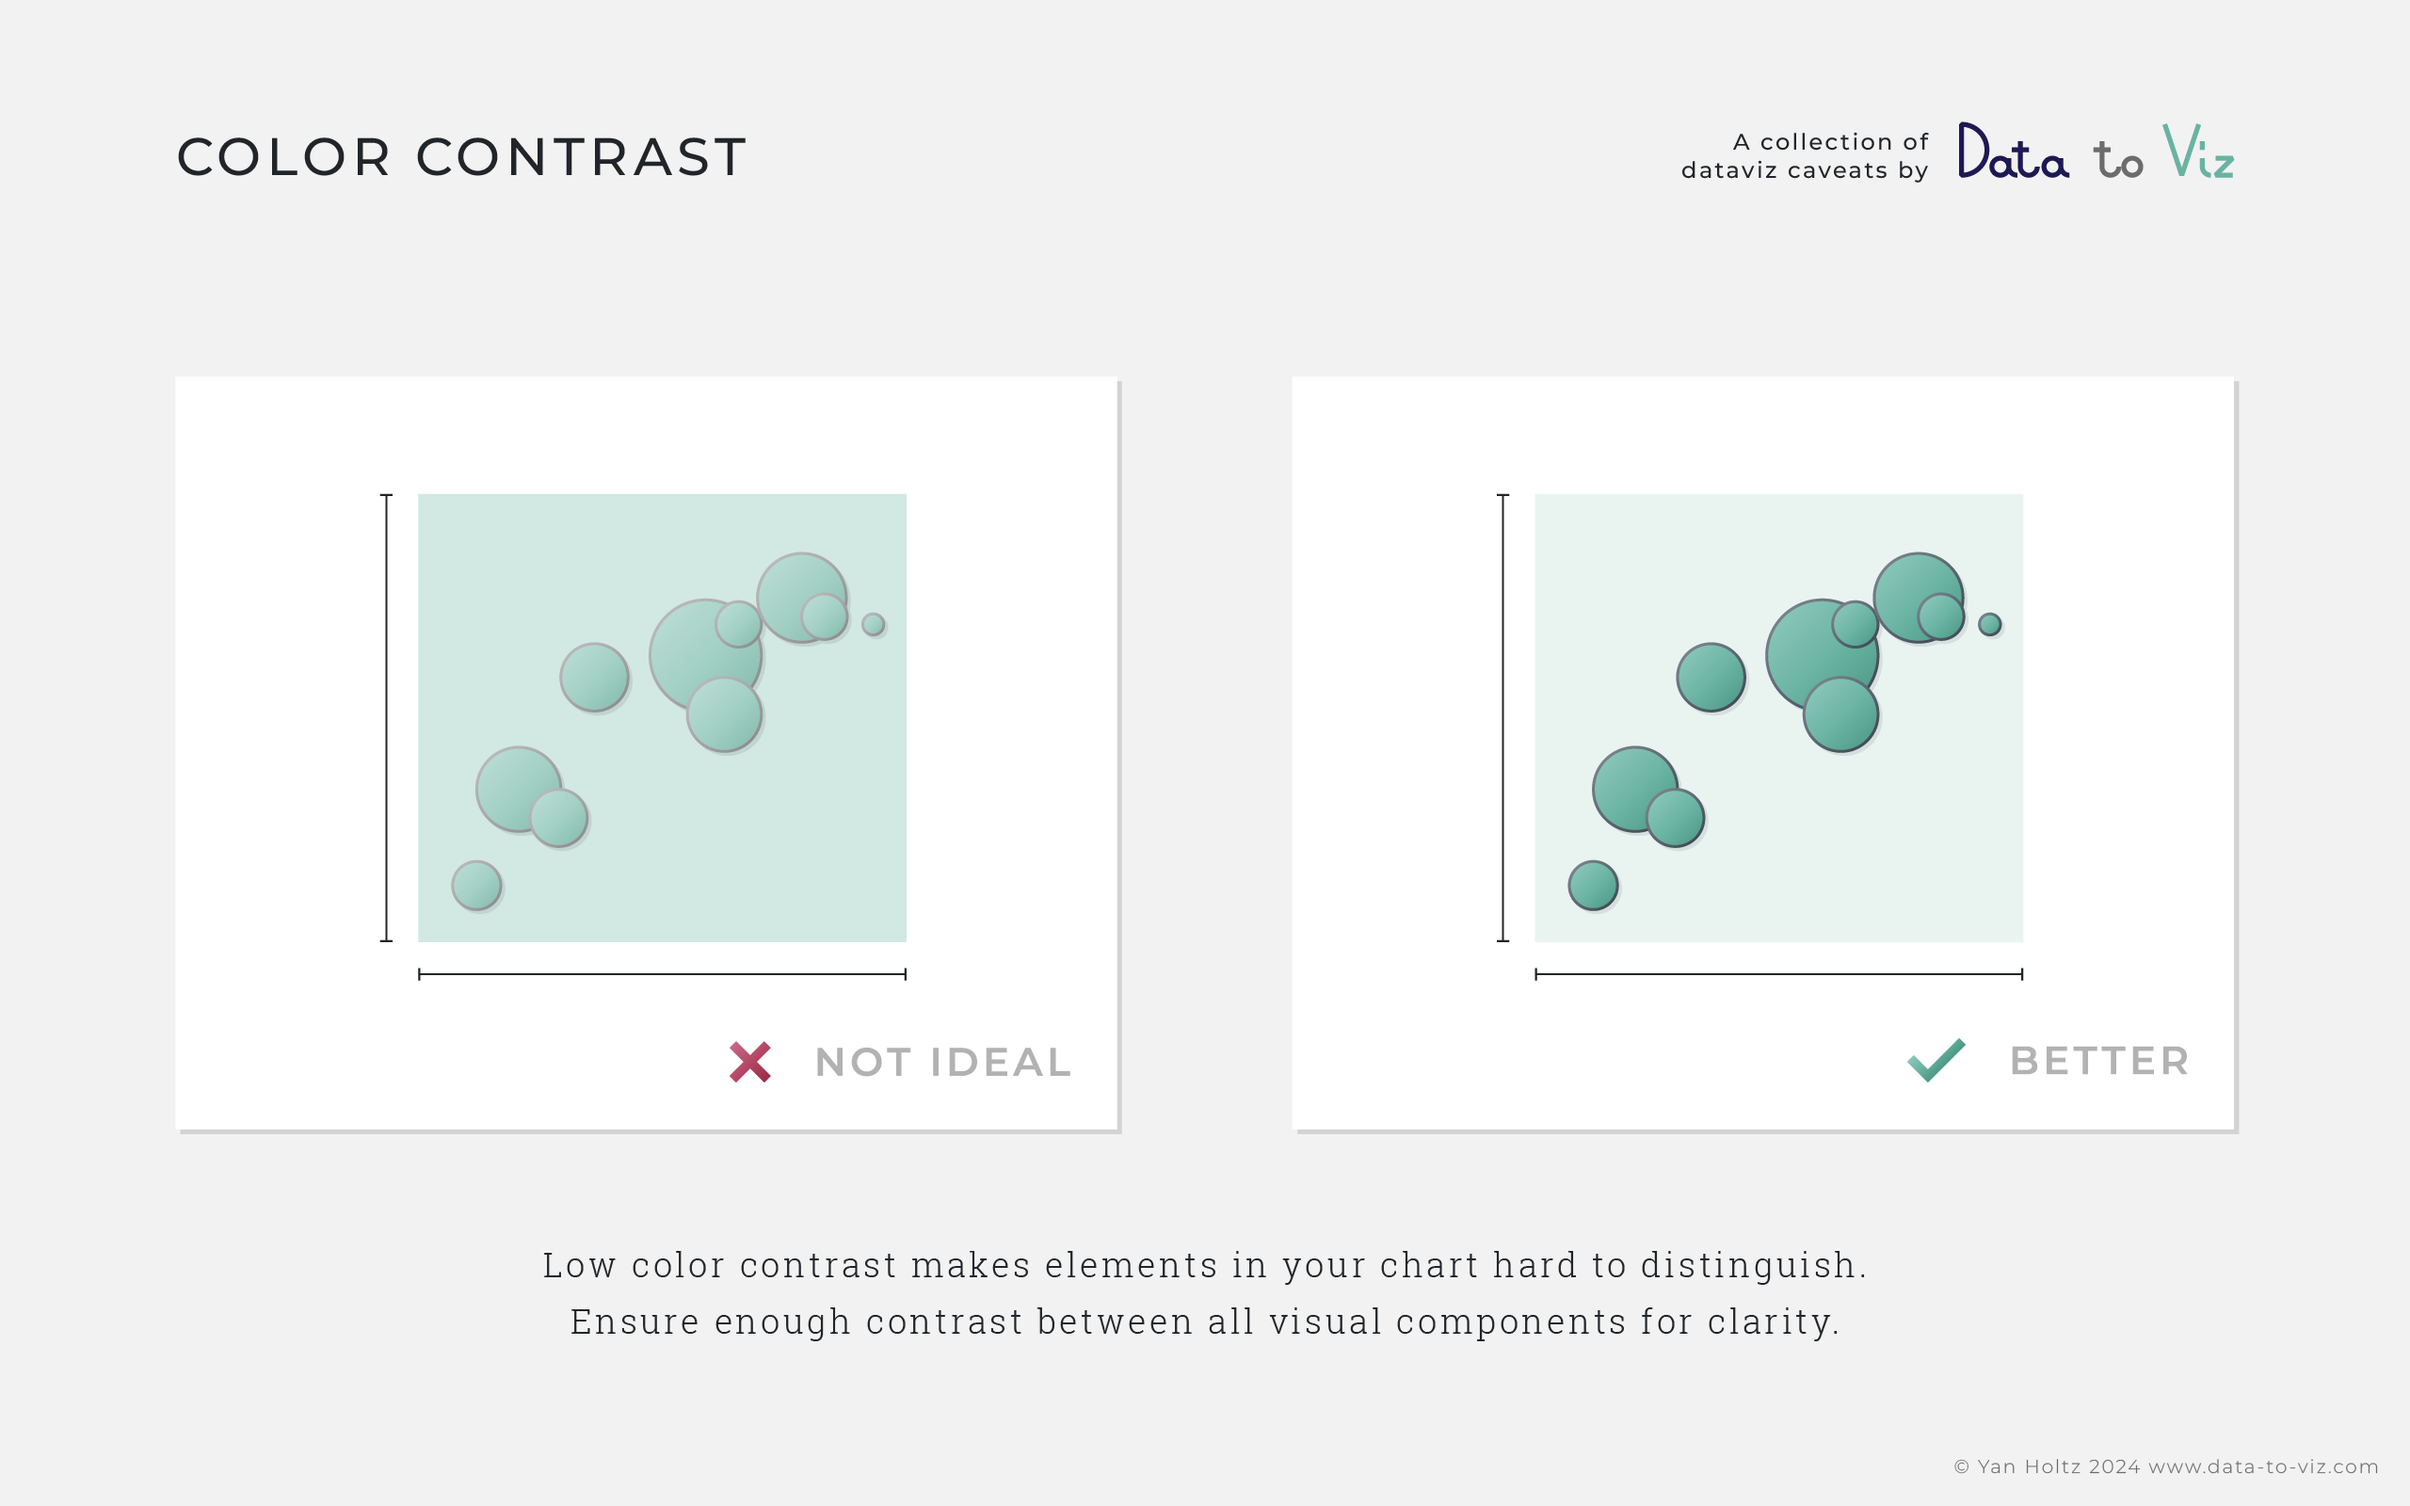
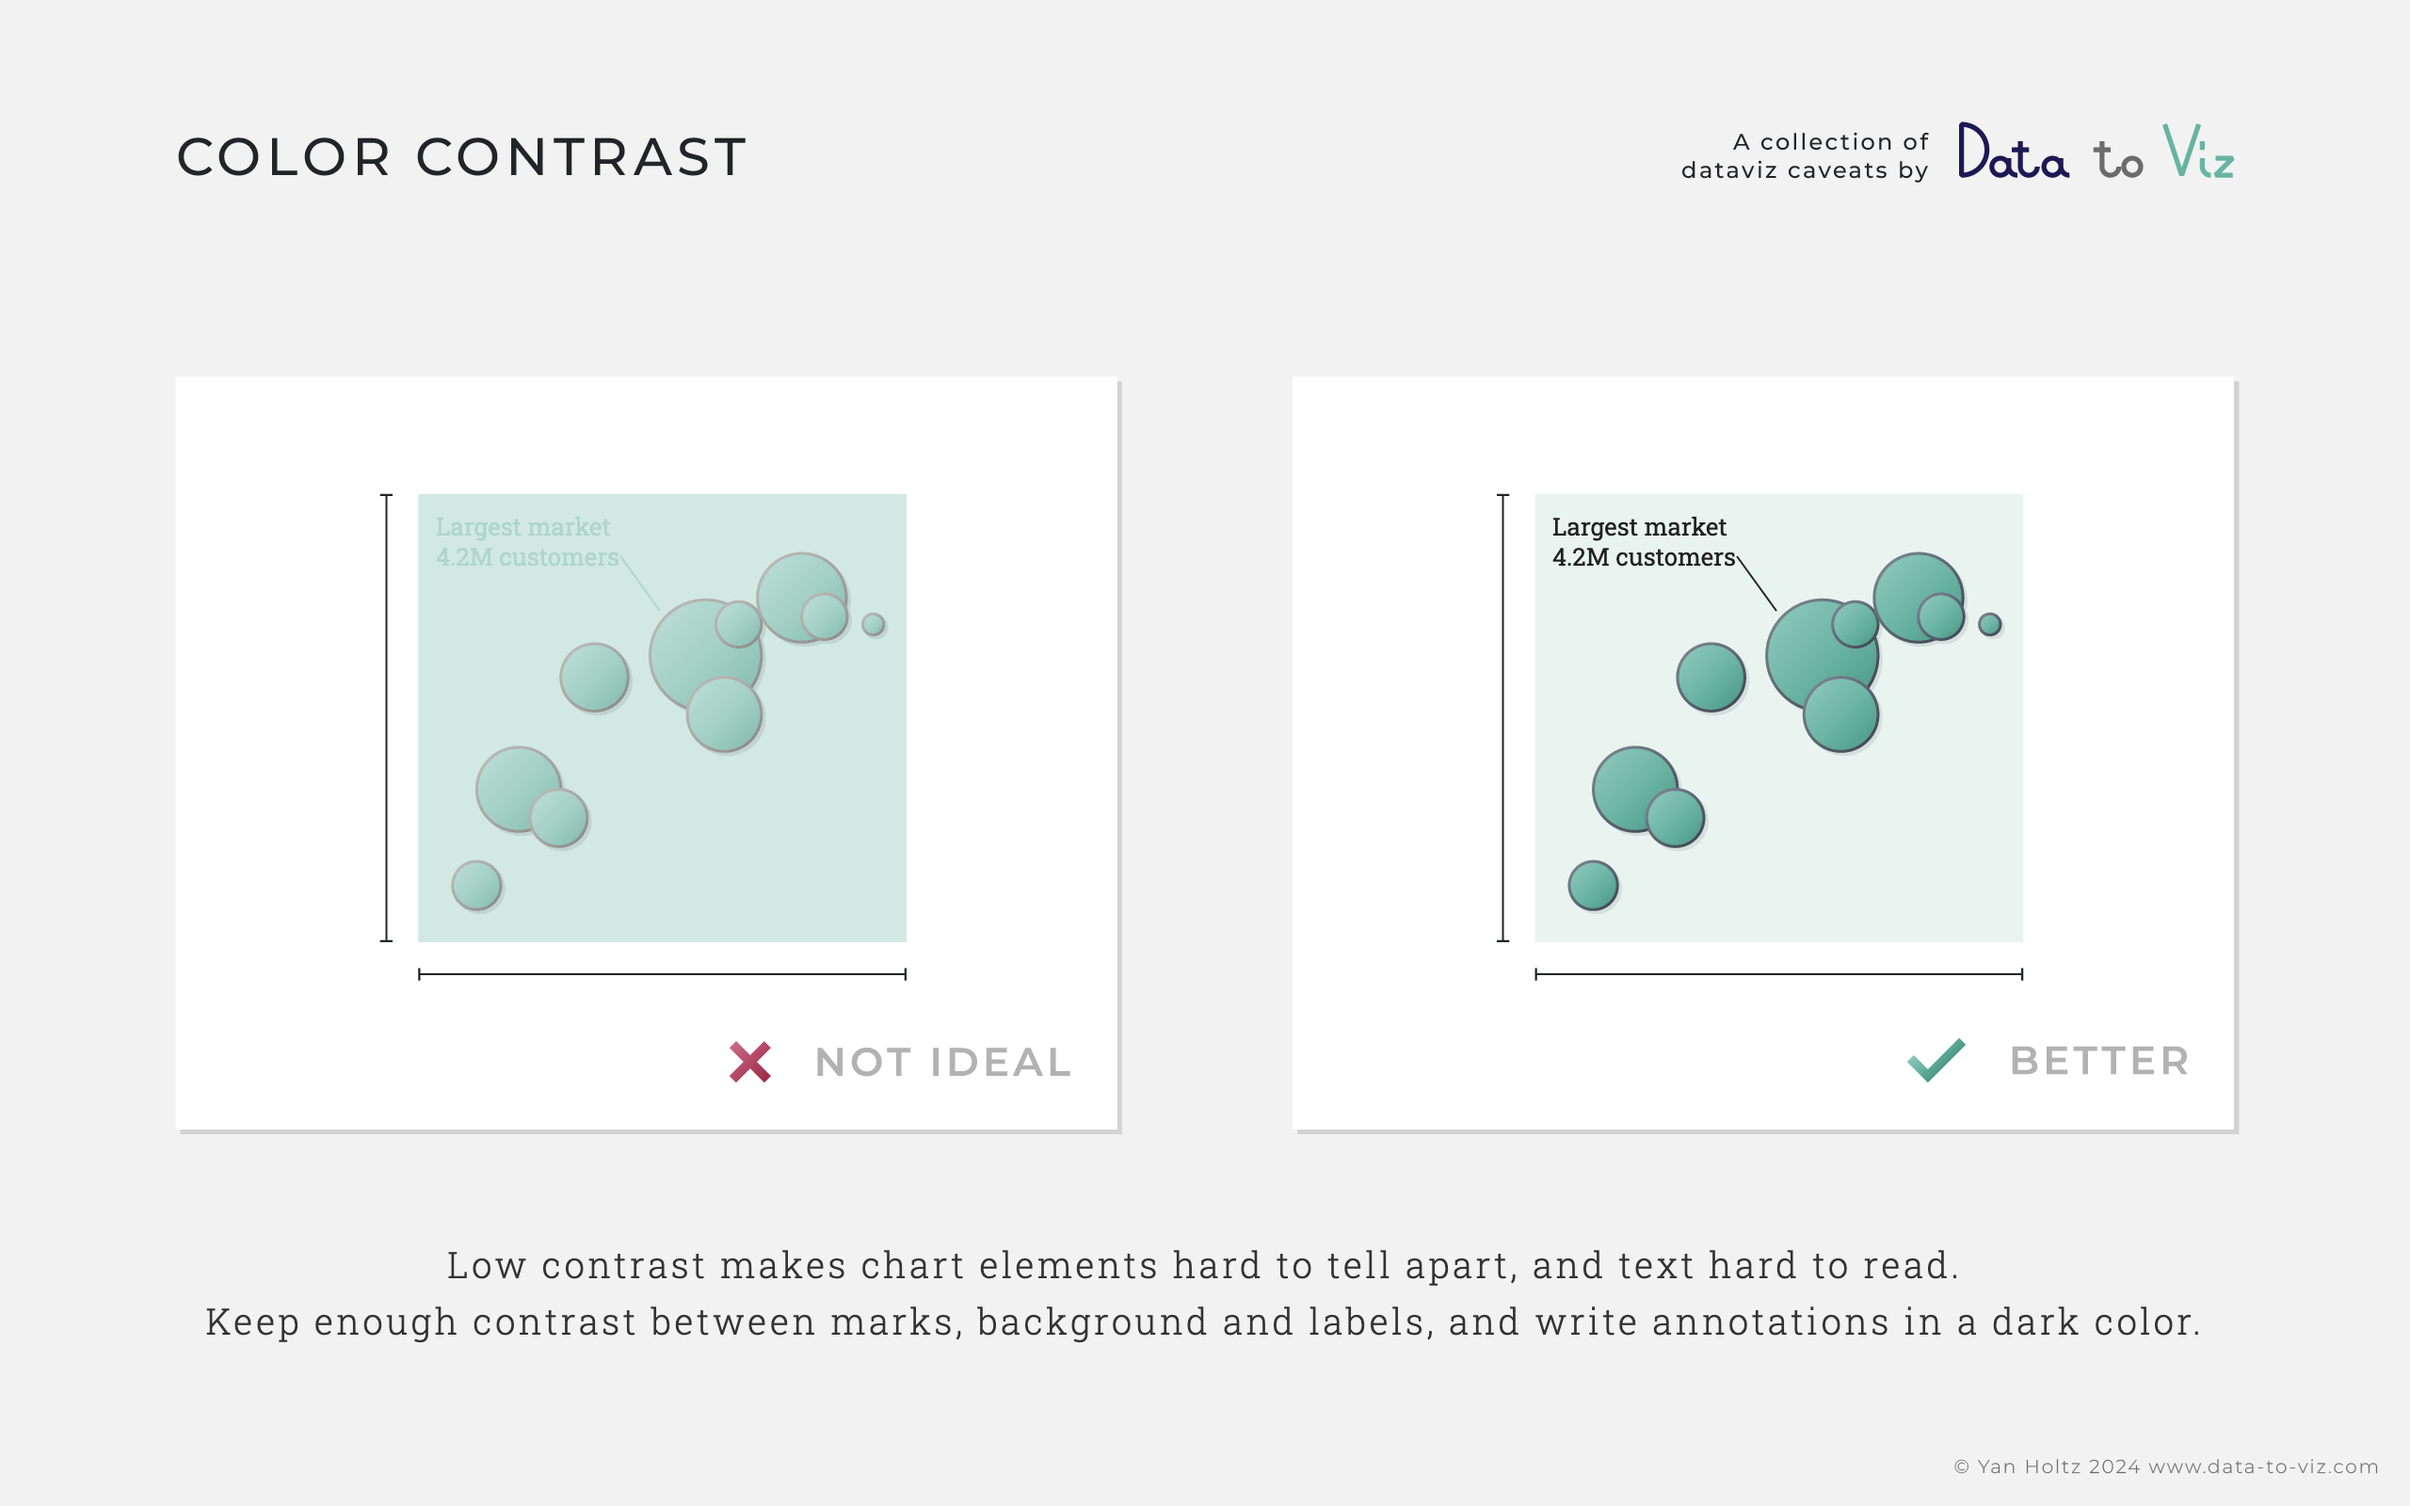
Flashcards: add cards 58-61, update card 22, Dashboards section
- New cards: margins between charts, link charts that share an axis,
  don't label every tick, declutter (linked to /caveat/declutter.html)
- Card 22 (color contrast) re-synced after its update
- New "Dashboards and data stories" section, as in the flashcards repo

diff --git a/lib/flashcards.ts b/lib/flashcards.ts
@@ -69,13 +69,6 @@ export const FLASHCARD_SECTIONS: FlashcardSection[] = [
         "thumb": "/flashcards/thumbs/29-draw-proportions-accurately.webp"
       },
       {
-        "id": "32-share-the-y-axis",
-        "number": 32,
-        "title": "Share the y-axis to compare charts",
-        "image": "/flashcards/32-share-the-y-axis.webp",
-        "thumb": "/flashcards/thumbs/32-share-the-y-axis.webp"
-      },
-      {
         "id": "42-respect-time-intervals",
         "number": 42,
         "title": "Respect time intervals",
@@ -156,13 +149,6 @@ export const FLASHCARD_SECTIONS: FlashcardSection[] = [
         "title": "Use color intentionally",
         "image": "/flashcards/06-use-color-intentionally.webp",
         "thumb": "/flashcards/thumbs/06-use-color-intentionally.webp"
-      },
-      {
-        "id": "10-keep-colors-consistent",
-        "number": 10,
-        "title": "Keep colors consistent across charts",
-        "image": "/flashcards/10-keep-colors-consistent.webp",
-        "thumb": "/flashcards/thumbs/10-keep-colors-consistent.webp"
       },
       {
         "id": "21-optimizing-background-colors",
@@ -274,6 +260,13 @@ export const FLASHCARD_SECTIONS: FlashcardSection[] = [
         "title": "Make the title say something",
         "image": "/flashcards/49-make-the-title-say-something.webp",
         "thumb": "/flashcards/thumbs/49-make-the-title-say-something.webp"
+      },
+      {
+        "id": "61-declutter-less-is-more",
+        "number": 61,
+        "title": "Declutter: less is more",
+        "image": "/flashcards/61-declutter-less-is-more.webp",
+        "thumb": "/flashcards/thumbs/61-declutter-less-is-more.webp"
       }
     ]
   },
@@ -356,6 +349,47 @@ export const FLASHCARD_SECTIONS: FlashcardSection[] = [
         "title": "Annotation is crucial",
         "image": "/flashcards/55-annotate-your-chart.webp",
         "thumb": "/flashcards/thumbs/55-annotate-your-chart.webp"
+      },
+      {
+        "id": "60-dont-label-every-tick",
+        "number": 60,
+        "title": "Don't label every tick",
+        "image": "/flashcards/60-dont-label-every-tick.webp",
+        "thumb": "/flashcards/thumbs/60-dont-label-every-tick.webp"
+      }
+    ]
+  },
+  {
+    "id": "dashboards-and-data-stories",
+    "title": "Dashboards and data stories",
+    "cards": [
+      {
+        "id": "10-keep-colors-consistent",
+        "number": 10,
+        "title": "Keep colors consistent across charts",
+        "image": "/flashcards/10-keep-colors-consistent.webp",
+        "thumb": "/flashcards/thumbs/10-keep-colors-consistent.webp"
+      },
+      {
+        "id": "32-share-the-y-axis",
+        "number": 32,
+        "title": "Share the y-axis to compare charts",
+        "image": "/flashcards/32-share-the-y-axis.webp",
+        "thumb": "/flashcards/thumbs/32-share-the-y-axis.webp"
+      },
+      {
+        "id": "58-use-margins-between-charts",
+        "number": 58,
+        "title": "Use margins between charts",
+        "image": "/flashcards/58-use-margins-between-charts.webp",
+        "thumb": "/flashcards/thumbs/58-use-margins-between-charts.webp"
+      },
+      {
+        "id": "59-link-your-charts",
+        "number": 59,
+        "title": "Link charts that share an axis",
+        "image": "/flashcards/59-link-your-charts.webp",
+        "thumb": "/flashcards/thumbs/59-link-your-charts.webp"
       }
     ]
   },

diff --git a/app/caveats/page.tsx b/app/caveats/page.tsx
@@ -49,6 +49,7 @@ const FLASHCARD_ARTICLES: Record<string, string> = {
   "55-annotate-your-chart": "/caveat/annotation.html",
   "56-simpsons-paradox": "/caveat/simpson.html",
   "57-circular-barplot-distortion": "/caveat/circular_bar_yaxis.html",
+  "61-declutter-less-is-more": "/caveat/declutter.html",
 };
 
 /** The original gallery. Items without a flashcard are listed under "More caveats". */
